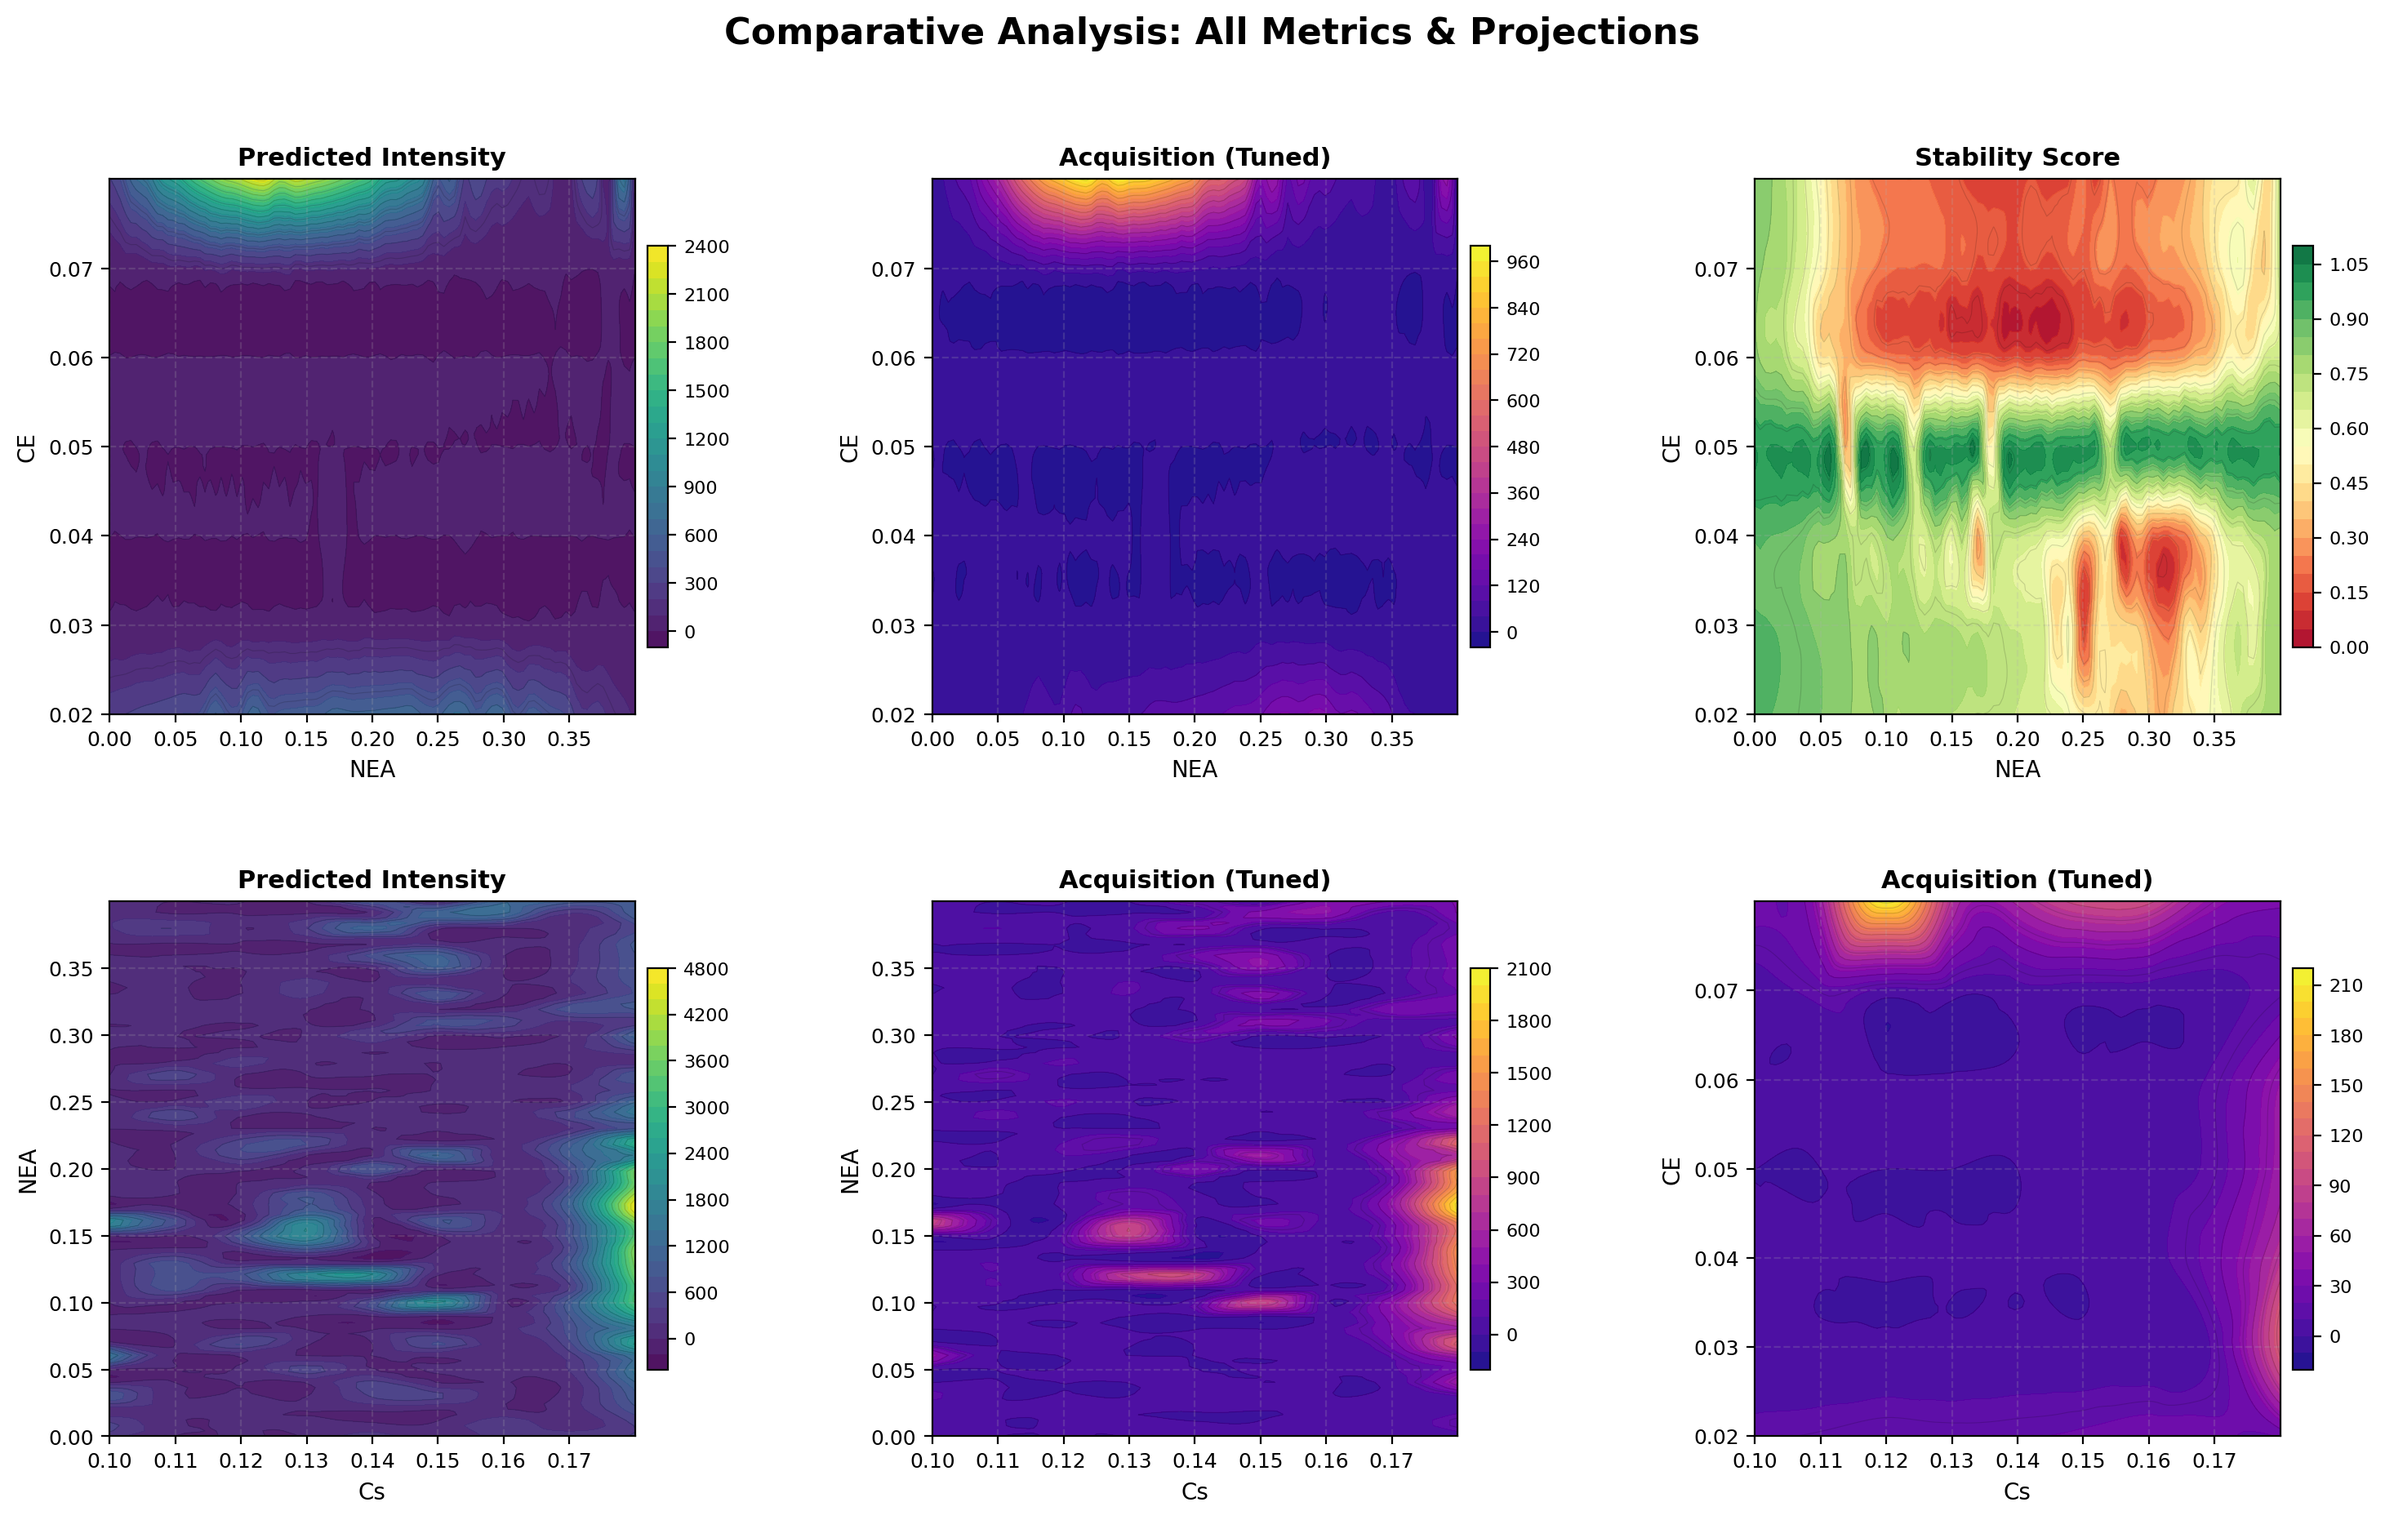
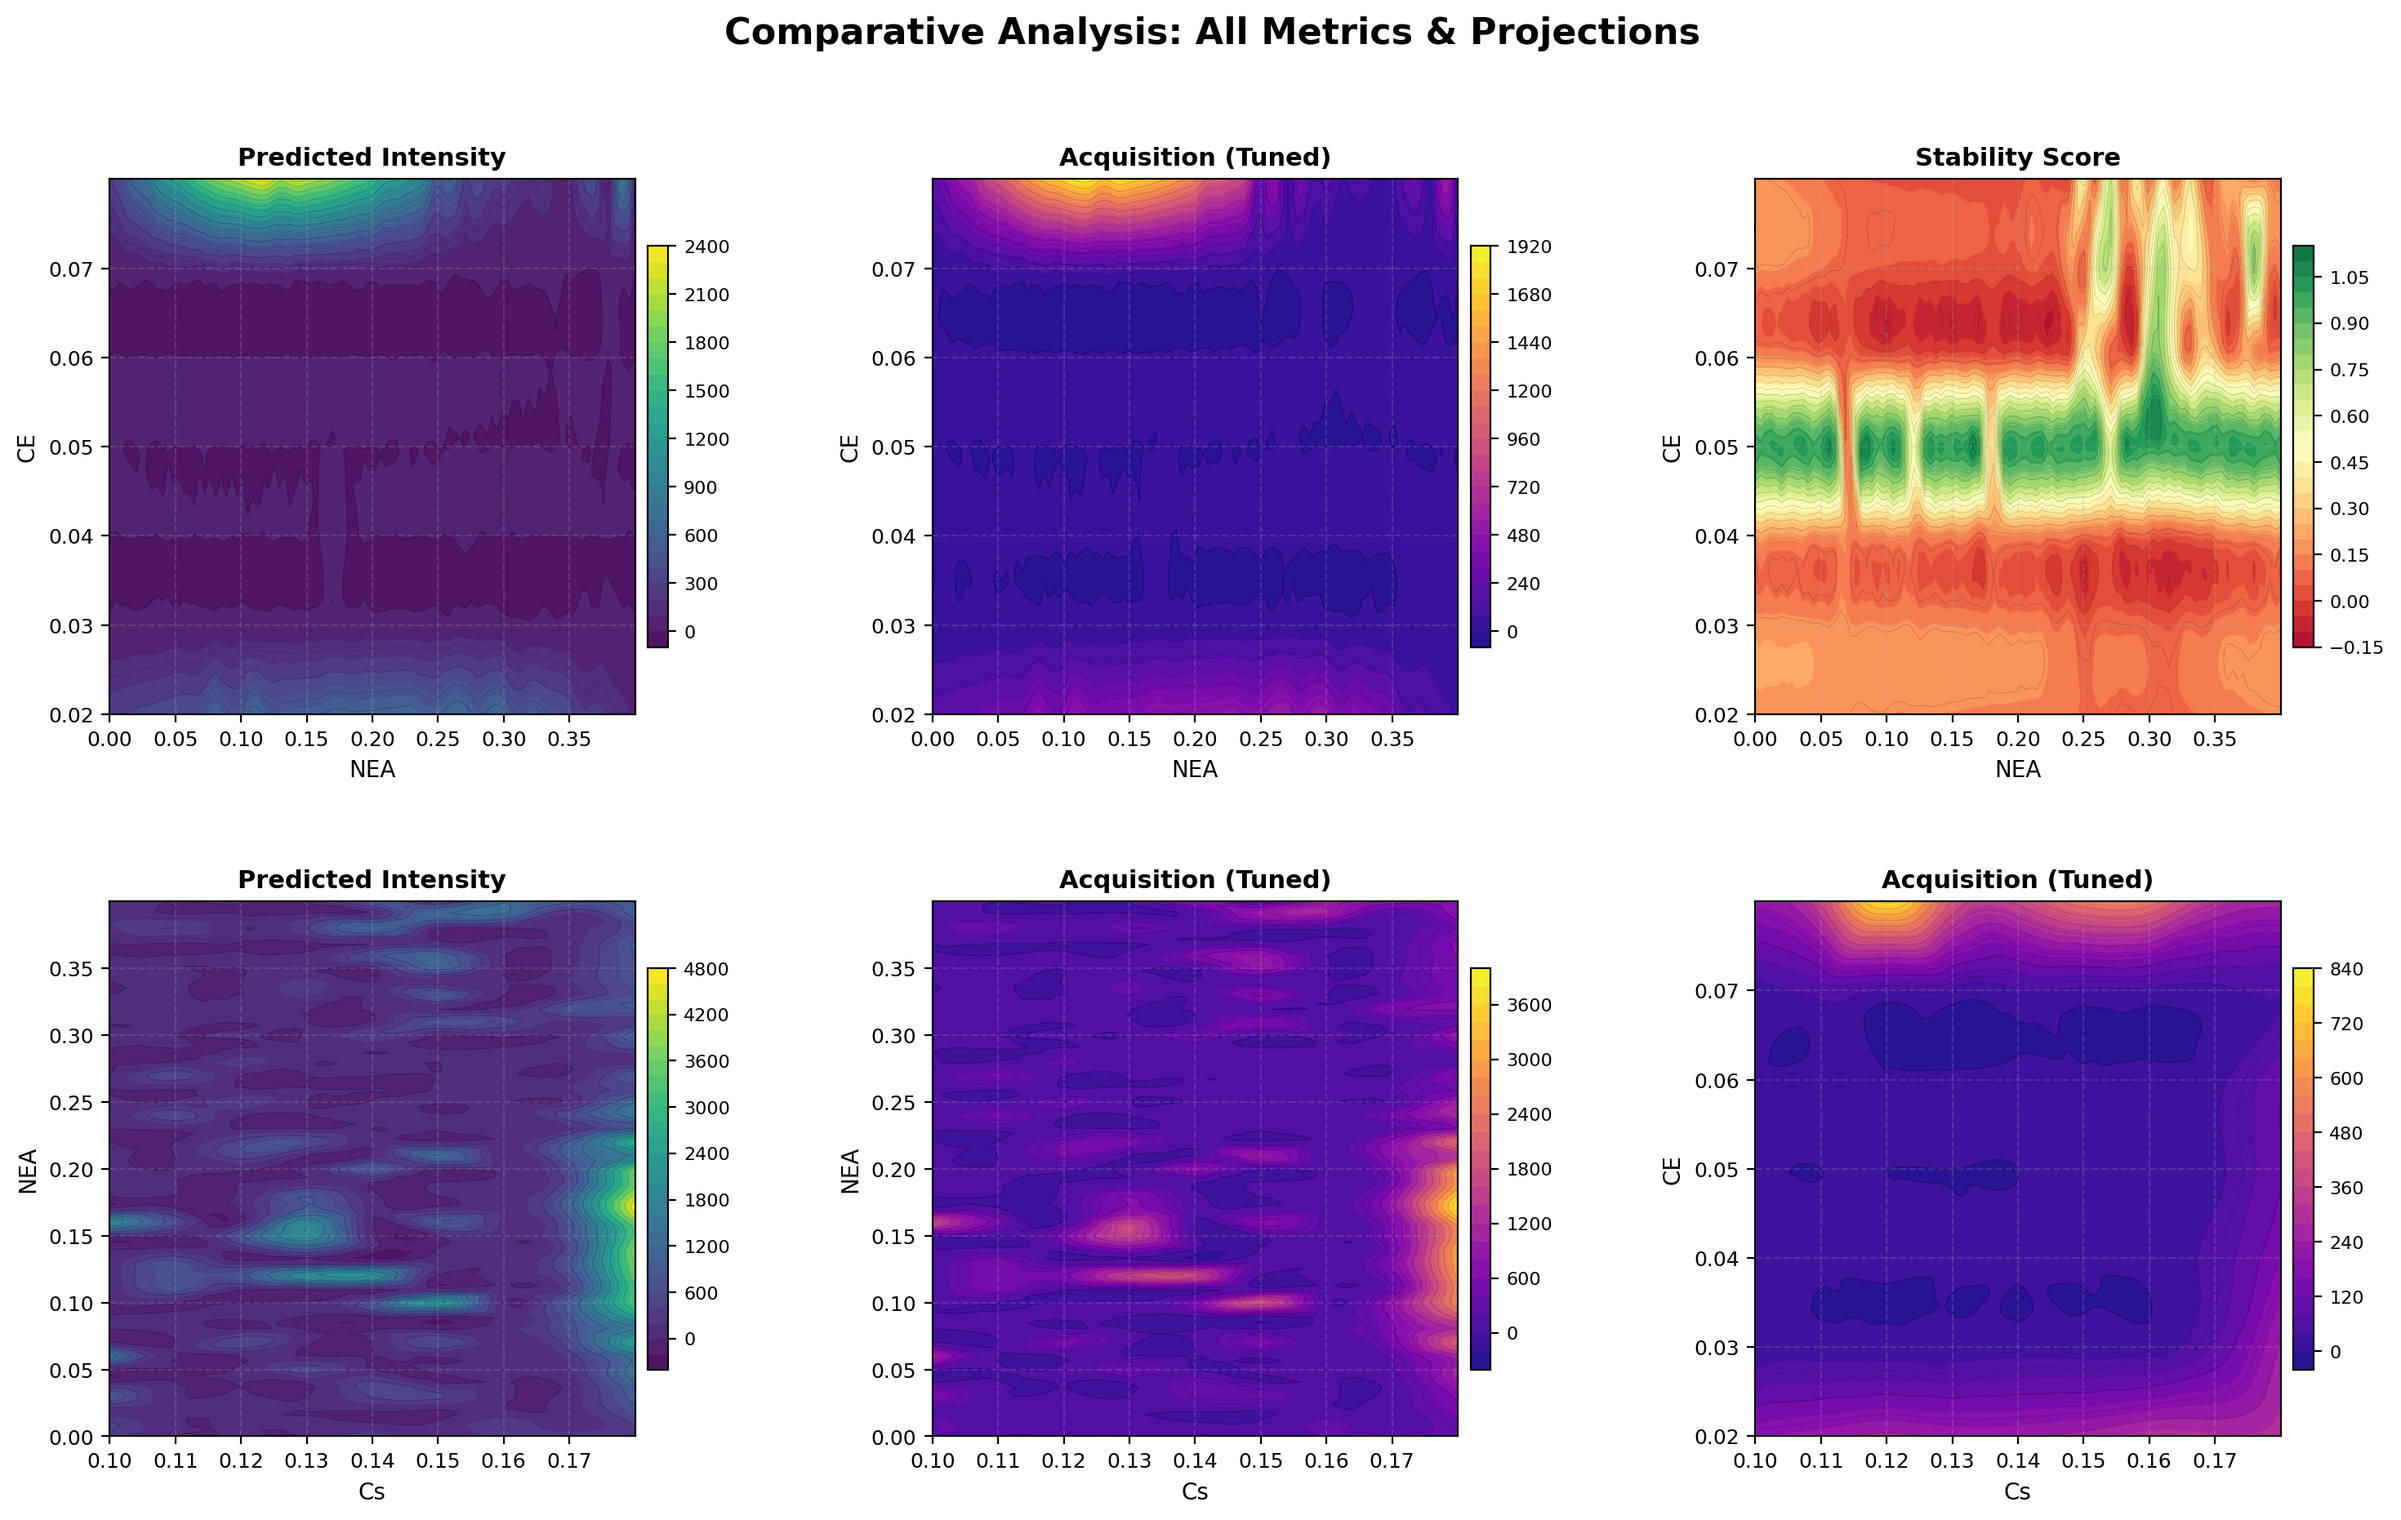
fix scoring

diff --git a/instability_scoring.py b/instability_scoring.py
@@ -100,10 +100,12 @@ def instability_score(
 
 def instability_score_simple(
     df: pd.DataFrame,
+    compositions_with_multiple_peaks: np.ndarray,
     target_wavelength: float,
     wavelength_tolerance: float,
     degradation_weight: float,
-    position_weight: float
+    position_weight: float,
+    multiple_peak_penalty: float,
 ) -> np.ndarray:
     """
     Simplified score that combines:
@@ -120,7 +122,13 @@ def instability_score_simple(
     df : pd.DataFrame
         DataFrame with columns:
         initial_peak_positions, final_peak_positions,
-        initial_peak_intensities, final_peak_intensities
+        initial_peak_intensities, final_peak_intensities,
+        composition_number, iteration, and (optionally)
+        initial_peak_fwhm, initial_left_area, initial_right_area.
+    compositions_with_multiple_peaks : np.ndarray
+        Structured or simple array identifying compositions that
+        show multiple peaks. If structured, it must contain fields
+        ('composition_number', 'iteration').
     target_wavelength : float
         Target wavelength (e.g. 460 for pure blue)
     wavelength_tolerance : float
@@ -129,6 +137,8 @@ def instability_score_simple(
         Weight for the *intensity* term (higher = care more about brightness)
     position_weight : float
         Weight for the wavelength term (higher = care more about color / λ)
+    multiple_peak_penalty : float
+        Additional penalty added when a composition has multiple peaks.
         
     Returns
     -------
@@ -155,6 +165,19 @@ def instability_score_simple(
     else:
         fwhm_min, fwhm_max = 0.0, 1.0
     
+    # Create a lookup set for multiple‑peak compositions
+    multiple_peaks_set = set()
+    if compositions_with_multiple_peaks is not None and len(compositions_with_multiple_peaks) > 0:
+        if getattr(compositions_with_multiple_peaks, "dtype", None) is not None and compositions_with_multiple_peaks.dtype.names:
+            # Structured array: expect fields 'composition_number' and 'iteration'
+            multiple_peaks_set = set(
+                (int(row["composition_number"]), int(row["iteration"]))
+                for row in compositions_with_multiple_peaks
+            )
+        else:
+            # Simple list/array of indices – assume iteration 0
+            multiple_peaks_set = set((int(comp), 0) for comp in compositions_with_multiple_peaks)
+
     for _, row in df.iterrows():
         peak_positions_int = row["initial_peak_positions"]
         peak_positions_fin = row["final_peak_positions"]
@@ -218,6 +241,11 @@ def instability_score_simple(
             + w_width * width_penalty
             + w_asym * asym_penalty
         )
+        # Add multiple‑peak penalty if this composition is in the set
+        comp_key = (int(row.get("composition_number", -1)), int(row.get("iteration", 0)))
+        if comp_key in multiple_peaks_set:
+            total_score += multiple_peak_penalty
+
         total_score = min(total_score, max_score)
         stb_scores.append(total_score)
     

diff --git a/main.py b/main.py
@@ -353,13 +353,16 @@ def run_dual_gp_analysis(df_intensity, peak_data, multiple_peaks):
     # Calculate instability scores
     print("Calculating instability scores...")
     if peak_data is not None:
-        # 1. Compute per‑measured‑point quality score from peak features
+        # 1. Compute per‑measured‑point quality score from peak features,
+        #    including multiple‑peak penalty.
         y_tune_score = instability_score_simple(
             peak_data,
+            multiple_peaks,
             target_wavelength=config.TARGET_WAVELENGTH,
             wavelength_tolerance=config.WAVELENGTH_TOLERANCE,
             degradation_weight=config.DEGRADATION_WEIGHT,
             position_weight=config.POSITION_WEIGHT,
+            multiple_peak_penalty=config.MULTIPLE_PEAK_PENALTY,
         )
         # Normalize to [0, 1]; lower = better
         y_tune_score = (y_tune_score - np.min(y_tune_score)) / (
